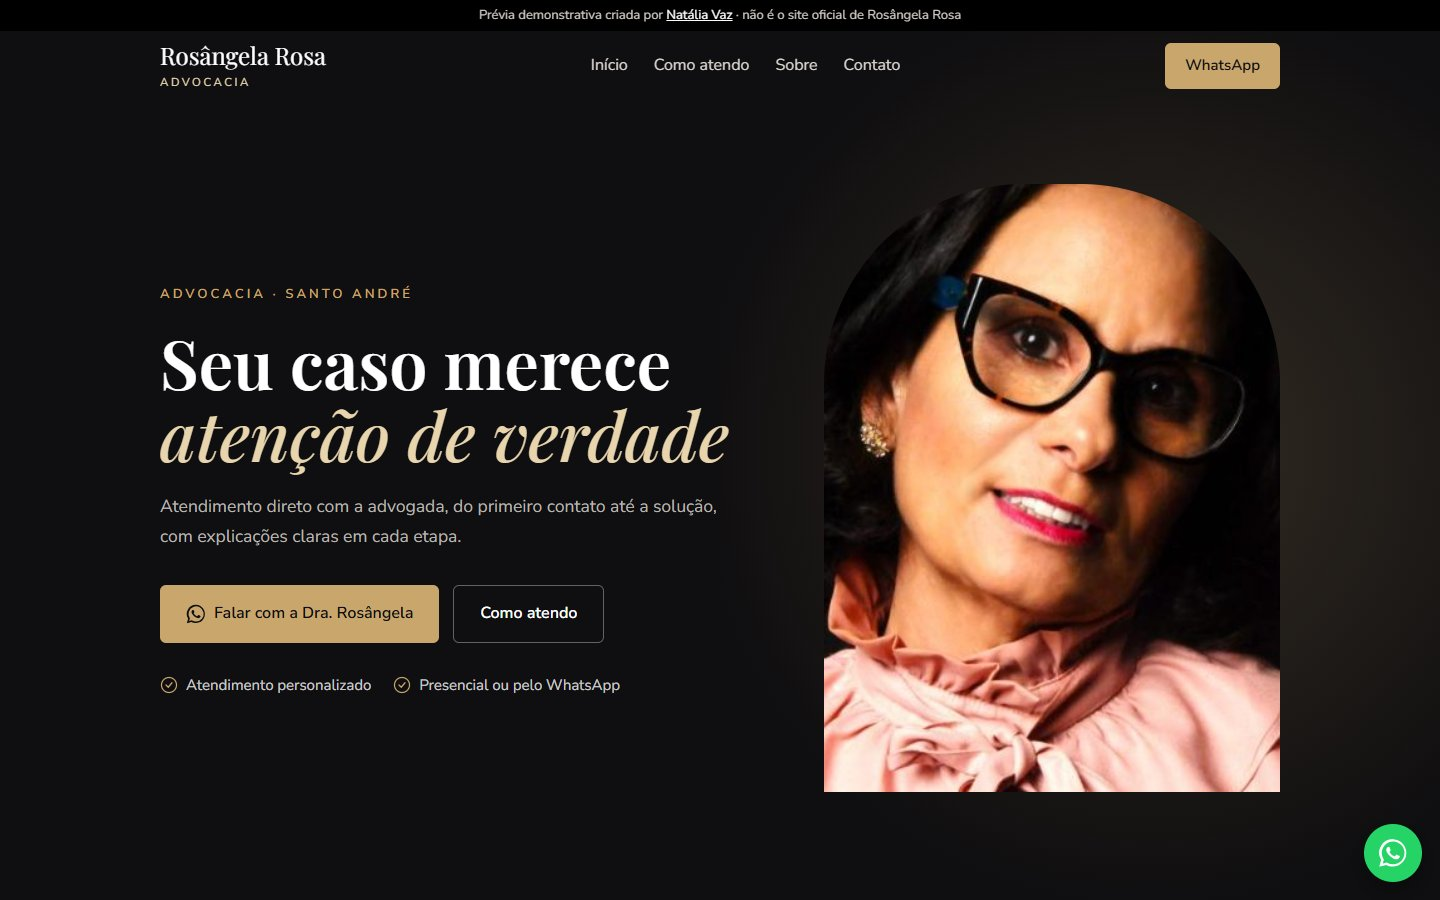
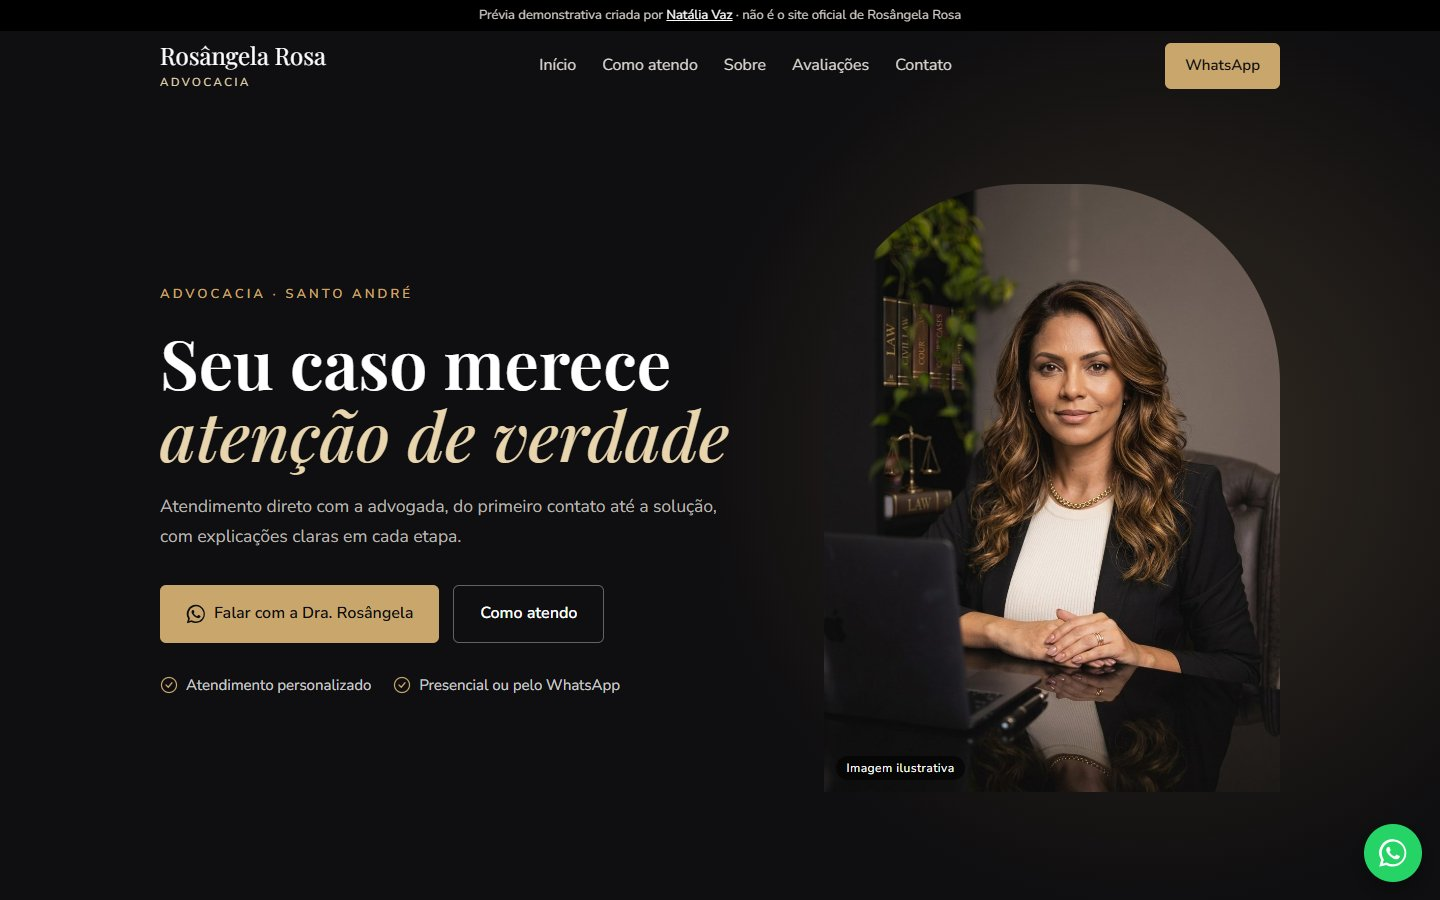
Rosângela Rosa: foto do kit no topo, foto dela no Sobre e avaliações de exemplo

Changed region(s): [[0.5625, 0.1867, 0.9062, 0.9022], [0.375, 0.0622, 0.6562, 0.0933]]

diff --git a/rosangela-rosa/index.html b/rosangela-rosa/index.html
@@ -252,16 +252,11 @@ html{--gap-secao:clamp(64px,8vw,96px)}
 .hero{min-height:100vh;display:flex;align-items:center;padding-bottom:72px}
 .hero-text{padding-bottom:0}
 .hero .wrap{align-items:center}
-.hero-photo img{object-position:60% 50%}
+.hero-photo img{object-position:50% 20%}
 .hero .pledge{display:flex;flex-wrap:wrap;gap:10px 22px;margin-top:30px;padding:0;list-style:none;font-size:15px;color:rgba(255,255,255,.78)}
 .hero .pledge li{display:flex;align-items:center;gap:8px}
 .hero .pledge .ic{width:18px;height:18px;color:var(--accent)}
-.values{background:var(--dark);color:#fff;border-radius:22px;padding:40px 34px;display:grid;gap:26px}
-.values .v{display:flex;gap:16px;align-items:flex-start}
-.values .v .ic{flex:none;width:26px;height:26px;color:var(--accent);margin-top:3px}
-.values b{display:block;font-family:var(--serif);font-weight:600;font-size:21px;margin-bottom:4px}
-.values span{color:rgba(255,255,255,.72);font-size:16px;line-height:1.55}
-@media (max-width:860px){.hero{display:block;min-height:0;padding-bottom:48px}.hero-photo{max-width:320px}.values{padding:30px 24px}}
+@media (max-width:860px){.hero{display:block;min-height:0;padding-bottom:48px}.hero-photo{max-width:320px}}
 </style>
 </head>
 <body>
@@ -314,6 +309,7 @@ html{--gap-secao:clamp(64px,8vw,96px)}
       <li><a href="#inicio">Início</a></li>
       <li><a href="#servicos">Como atendo</a></li>
       <li><a href="#sobre">Sobre</a></li>
+      <li><a href="#avaliacoes">Avaliações</a></li>
       <li><a href="#contato">Contato</a></li>
     </ul>
     <div class="nav-right">
@@ -339,7 +335,8 @@ html{--gap-secao:clamp(64px,8vw,96px)}
       </ul>
     </div>
     <div class="hero-photo reveal">
-      <img src="assets/hero.jpg" alt="Dra. Rosângela Rosa, advogada">
+      <img src="assets/hero.jpg" alt="Advogada (imagem ilustrativa)">
+      <span class="ilustr">Imagem ilustrativa</span>
     </div>
   </div>
 </header>
@@ -388,11 +385,7 @@ html{--gap-secao:clamp(64px,8vw,96px)}
 <section class="section" id="sobre">
   <div class="wrap about">
     <div class="about-img reveal">
-      <div class="values">
-        <div class="v"><svg class="ic" aria-hidden="true"><use href="#i-heart"/></svg><div><b>Acolhimento</b><span>Escuta atenta para entender o que realmente importa no seu caso.</span></div></div>
-        <div class="v"><svg class="ic" aria-hidden="true"><use href="#i-check"/></svg><div><b>Clareza</b><span>Explicações em linguagem simples, sem juridiquês.</span></div></div>
-        <div class="v"><svg class="ic" aria-hidden="true"><use href="#i-shield"/></svg><div><b>Compromisso</b><span>Acompanhamento próximo em cada etapa, com ética e transparência.</span></div></div>
-      </div>
+      <img src="assets/sobre.jpg" alt="Dra. Rosângela Rosa, advogada" loading="lazy">
     </div>
     <div class="about-head reveal">
       <span class="kicker">Sobre</span>
@@ -403,6 +396,52 @@ html{--gap-secao:clamp(64px,8vw,96px)}
       <p>Aqui você é ouvido com calma, entende cada passo do processo e sabe sempre em que pé está o seu caso. O atendimento pode ser presencial, no escritório, ou pelo WhatsApp.</p>
       <blockquote>“Cada cliente é atendido com atenção e cuidado.”</blockquote>
       <a class="btn" href="https://wa.me/5511941672990?text=Ol%C3%A1%2C%20Dra.%20Ros%C3%A2ngela%21%20Vi%20o%20seu%20site%20e%20gostaria%20de%20agendar%20uma%20conversa%20sobre%20o%20meu%20caso." target="_blank" rel="noopener">Falar com a Dra. Rosângela</a>
+    </div>
+  </div>
+</section>
+
+<section class="section" id="avaliacoes">
+  <div class="wrap">
+    <div class="head center reveal">
+      <span class="kicker">Avaliações</span>
+      <h2>O que dizem os clientes</h2>
+    </div>
+    <div class="score reveal">
+      <div style="text-align:center"><span class="stars">★★★★★</span><small>Avaliações de exemplo: no site oficial, entram as suas avaliações reais do Google</small></div>
+    </div>
+    <div class="carousel reveal" aria-roledescription="carrossel" aria-label="Avaliações no Google">
+      <div class="track" id="track">
+        <figure class="review">
+          <div class="stars">★★★★★</div>
+          <p>A Dra. Rosângela me ouviu com muita paciência e explicou cada passo do processo sem complicar. Saí da primeira conversa bem mais tranquila.</p>
+          <footer><svg class="g" viewBox="0 0 24 24" aria-hidden="true"><path fill="#4285F4" d="M22.6 12.2c0-.8-.1-1.5-.2-2.2H12v4.2h6a5.1 5.1 0 0 1-2.2 3.4v2.8h3.6c2.1-1.9 3.2-4.8 3.2-8.2z"/><path fill="#34A853" d="M12 23c3 0 5.5-1 7.4-2.7l-3.6-2.8c-1 .7-2.3 1.1-3.8 1.1-2.9 0-5.4-2-6.3-4.7H2v2.9A11 11 0 0 0 12 23z"/><path fill="#FBBC05" d="M5.7 13.9a6.6 6.6 0 0 1 0-4.2V6.8H2a11 11 0 0 0 0 9.9l3.7-2.8z"/><path fill="#EA4335" d="M12 5.4c1.6 0 3.1.6 4.3 1.7l3.2-3.2A11 11 0 0 0 2 6.8l3.7 2.9C6.6 7.4 9.1 5.4 12 5.4z"/></svg><div>Cláudia R.<small>Avaliação de exemplo</small></div></footer>
+        </figure>
+        <figure class="review">
+          <div class="stars">★★★★★</div>
+          <p>Atendimento atencioso e muito profissional. Sempre respondeu rápido pelo WhatsApp e me manteve informado do andamento.</p>
+          <footer><svg class="g" viewBox="0 0 24 24" aria-hidden="true"><path fill="#4285F4" d="M22.6 12.2c0-.8-.1-1.5-.2-2.2H12v4.2h6a5.1 5.1 0 0 1-2.2 3.4v2.8h3.6c2.1-1.9 3.2-4.8 3.2-8.2z"/><path fill="#34A853" d="M12 23c3 0 5.5-1 7.4-2.7l-3.6-2.8c-1 .7-2.3 1.1-3.8 1.1-2.9 0-5.4-2-6.3-4.7H2v2.9A11 11 0 0 0 12 23z"/><path fill="#FBBC05" d="M5.7 13.9a6.6 6.6 0 0 1 0-4.2V6.8H2a11 11 0 0 0 0 9.9l3.7-2.8z"/><path fill="#EA4335" d="M12 5.4c1.6 0 3.1.6 4.3 1.7l3.2-3.2A11 11 0 0 0 2 6.8l3.7 2.9C6.6 7.4 9.1 5.4 12 5.4z"/></svg><div>Marcos O.<small>Avaliação de exemplo</small></div></footer>
+        </figure>
+        <figure class="review">
+          <div class="stars">★★★★★</div>
+          <p>Profissional ética, dedicada e humana. Passou segurança desde o primeiro contato e cuidou de tudo com muito carinho.</p>
+          <footer><svg class="g" viewBox="0 0 24 24" aria-hidden="true"><path fill="#4285F4" d="M22.6 12.2c0-.8-.1-1.5-.2-2.2H12v4.2h6a5.1 5.1 0 0 1-2.2 3.4v2.8h3.6c2.1-1.9 3.2-4.8 3.2-8.2z"/><path fill="#34A853" d="M12 23c3 0 5.5-1 7.4-2.7l-3.6-2.8c-1 .7-2.3 1.1-3.8 1.1-2.9 0-5.4-2-6.3-4.7H2v2.9A11 11 0 0 0 12 23z"/><path fill="#FBBC05" d="M5.7 13.9a6.6 6.6 0 0 1 0-4.2V6.8H2a11 11 0 0 0 0 9.9l3.7-2.8z"/><path fill="#EA4335" d="M12 5.4c1.6 0 3.1.6 4.3 1.7l3.2-3.2A11 11 0 0 0 2 6.8l3.7 2.9C6.6 7.4 9.1 5.4 12 5.4z"/></svg><div>Patrícia N.<small>Avaliação de exemplo</small></div></footer>
+        </figure>
+        <figure class="review">
+          <div class="stars">★★★★★</div>
+          <p>Me orientou com clareza e honestidade sobre o meu caso. Recomendo a quem procura uma advogada de confiança em Santo André.</p>
+          <footer><svg class="g" viewBox="0 0 24 24" aria-hidden="true"><path fill="#4285F4" d="M22.6 12.2c0-.8-.1-1.5-.2-2.2H12v4.2h6a5.1 5.1 0 0 1-2.2 3.4v2.8h3.6c2.1-1.9 3.2-4.8 3.2-8.2z"/><path fill="#34A853" d="M12 23c3 0 5.5-1 7.4-2.7l-3.6-2.8c-1 .7-2.3 1.1-3.8 1.1-2.9 0-5.4-2-6.3-4.7H2v2.9A11 11 0 0 0 12 23z"/><path fill="#FBBC05" d="M5.7 13.9a6.6 6.6 0 0 1 0-4.2V6.8H2a11 11 0 0 0 0 9.9l3.7-2.8z"/><path fill="#EA4335" d="M12 5.4c1.6 0 3.1.6 4.3 1.7l3.2-3.2A11 11 0 0 0 2 6.8l3.7 2.9C6.6 7.4 9.1 5.4 12 5.4z"/></svg><div>Roberto S.<small>Avaliação de exemplo</small></div></footer>
+        </figure>
+        <figure class="review">
+          <div class="stars">★★★★★</div>
+          <p>Excelente atendimento, com respeito e atenção em cada detalhe. Me senti acolhida num momento difícil.</p>
+          <footer><svg class="g" viewBox="0 0 24 24" aria-hidden="true"><path fill="#4285F4" d="M22.6 12.2c0-.8-.1-1.5-.2-2.2H12v4.2h6a5.1 5.1 0 0 1-2.2 3.4v2.8h3.6c2.1-1.9 3.2-4.8 3.2-8.2z"/><path fill="#34A853" d="M12 23c3 0 5.5-1 7.4-2.7l-3.6-2.8c-1 .7-2.3 1.1-3.8 1.1-2.9 0-5.4-2-6.3-4.7H2v2.9A11 11 0 0 0 12 23z"/><path fill="#FBBC05" d="M5.7 13.9a6.6 6.6 0 0 1 0-4.2V6.8H2a11 11 0 0 0 0 9.9l3.7-2.8z"/><path fill="#EA4335" d="M12 5.4c1.6 0 3.1.6 4.3 1.7l3.2-3.2A11 11 0 0 0 2 6.8l3.7 2.9C6.6 7.4 9.1 5.4 12 5.4z"/></svg><div>Aline F.<small>Avaliação de exemplo</small></div></footer>
+        </figure>
+      </div>
+      <div class="car-ctrl">
+        <button class="car-btn" id="prev" aria-label="Avaliação anterior">‹</button>
+        <div class="dots" id="dots"></div>
+        <button class="car-btn" id="next" aria-label="Próxima avaliação">›</button>
+      </div>
     </div>
   </div>
 </section>
